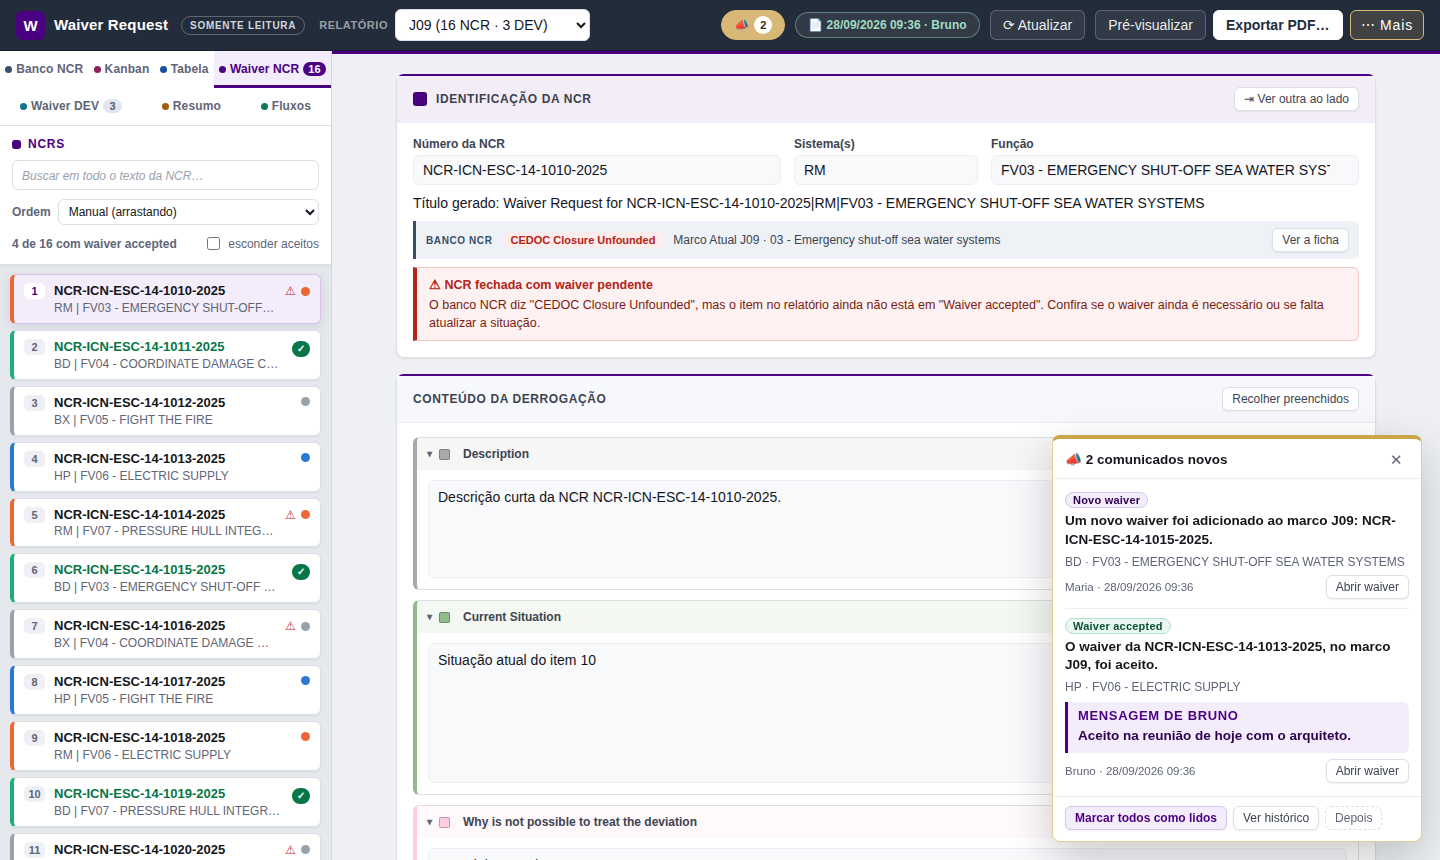
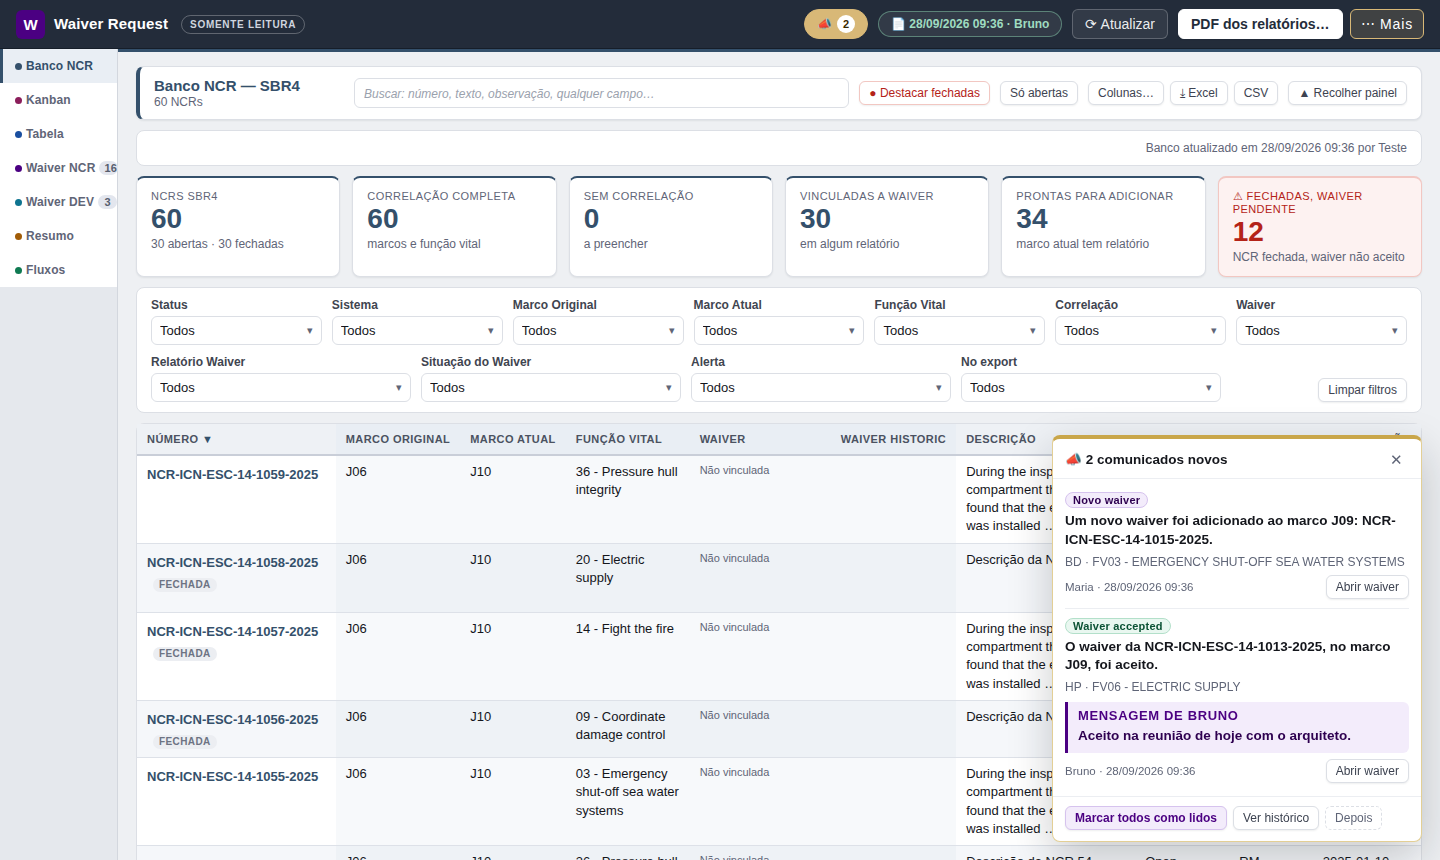
O visualizador também abre direto no Banco NCR
Config.ABA_INICIAL_EDITOR virou Config.ABA_INICIAL e passou a valer para os
dois programas: a aba é escolhida no boot antes do desvio do visualizador.
No visualizador a tabela do banco publicado abre sem nada editável.

Testes: o visualizador abre no Banco NCR, com a tabela montada e sem
controles de edição; a conferência da publicação antiga conta as linhas do
banco. Manual do visualizador: passo 3, pergunta frequente, seção do Banco
NCR e a captura da tela inicial (refeita do visualizador de verdade, lendo
X:\36.GTO - RELATÓRIOS GTO\...\00_BD_VISUALIZADOR).

Claude-Session: https://claude.ai/code/session_01NopkVcVfrmMCeFjHt2w9sw

diff --git a/derrogacao-visualizador.html b/derrogacao-visualizador.html
@@ -5408,8 +5408,8 @@ body.modo-leitura .status-op:disabled:not(.is-on) { opacity: .45; }
 /* ==========================================================================
    config.js — as preferências do programa que mudam com o tempo
    --------------------------------------------------------------------------
-   Um lugar só para o que hoje vale e amanhã será outro — o marco da vez, o
-   ritmo da atualização automática, os marcos que geram comunicados. Mudou o marco prioritário? É aqui, e em
+   Um lugar só para o que hoje vale e amanhã será outro — o marco da vez, a aba
+   de abertura, o ritmo da atualização automática, os marcos que geram comunicados. Mudou o marco prioritário? É aqui, e em
    nenhum outro arquivo.
 
    Carrega logo depois do log.js e não usa ninguém: só guarda valores e as
@@ -5423,10 +5423,10 @@ body.modo-leitura .status-op:disabled:not(.is-on) { opacity: .45; }
      "priorizar o Marco 9". Quando o marco da vez mudar, troque só esta linha. */
   var MARCO_INICIAL = 'J09';
 
-  /* A aba em que o EDITOR abre. Pedido do Bruno: abrir direto no Banco NCR.
-     O visualizador não lê isto — ele continua abrindo como sempre abriu.
-     Valores: 'banco', 'kanban', 'tabela', 'ncr', 'dev', 'resumo', 'fluxos'. */
-  var ABA_INICIAL_EDITOR = 'banco';
+  /* A aba em que o programa abre — o editor e o visualizador. Pedido do
+     Bruno: abrir direto no Banco NCR. Valores: 'banco', 'kanban', 'tabela',
+     'ncr', 'dev', 'resumo', 'fluxos'. */
+  var ABA_INICIAL = 'banco';
 
   /* De quanto em quanto tempo os dados de fora são conferidos sozinhos: a
      pasta da equipe no editor, a publicação no visualizador. */
@@ -5498,7 +5498,7 @@ body.modo-leitura .status-op:disabled:not(.is-on) { opacity: .45; }
 
   global.Config = {
     MARCO_INICIAL: MARCO_INICIAL,
-    ABA_INICIAL_EDITOR: ABA_INICIAL_EDITOR,
+    ABA_INICIAL: ABA_INICIAL,
     INTERVALO_ATUALIZACAO_MS: INTERVALO_ATUALIZACAO_MS,
     MARCOS_COMUNICADOS: MARCOS_COMUNICADOS,
     DIAS_COMUNICADO_NOVO: DIAS_COMUNICADO_NOVO,
@@ -27511,6 +27511,12 @@ if(isWorker){
     Log.vigiar();
     registrarFontes();
     wire();
+    /* O programa abre na aba de Config.ABA_INICIAL (o Banco NCR) — o editor
+       e o visualizador. Antes de montar qualquer coisa, para a primeira tela
+       já ser ela. A aba que não existe nesta página cai na de sempre. */
+    var abaInicial = Config.ABA_INICIAL;
+    var botaoAba = abaInicial && document.querySelector('.tab[data-kind="' + abaInicial + '"]');
+    if (botaoAba && !botaoAba.hidden) state.kind = abaInicial;
     /* O visualizador: o mesmo programa, só lendo a publicação. Nada do que
        vem abaixo (banco do navegador, pasta, conversa, diário) roda nele. */
     if (Leitura.ativo()) {
@@ -27521,13 +27527,6 @@ if(isWorker){
       });
       return;
     }
-    /* O editor abre na aba de Config.ABA_INICIAL_EDITOR (o Banco NCR).
-       Antes de montar qualquer coisa, para a primeira tela já ser ela — e só
-       aqui, depois do desvio do visualizador, que continua abrindo como
-       sempre. A aba que não existe nesta página cai na de sempre. */
-    var abaInicial = Config.ABA_INICIAL_EDITOR;
-    var botaoAba = abaInicial && document.querySelector('.tab[data-kind="' + abaInicial + '"]');
-    if (botaoAba && !botaoAba.hidden) state.kind = abaInicial;
     aoLado = lerAoLado();
     registrarServiceWorker();
     requestPersistentStorage();

diff --git a/derrogacao.html b/derrogacao.html
@@ -5406,8 +5406,8 @@ body.modo-leitura .status-op:disabled:not(.is-on) { opacity: .45; }
 /* ==========================================================================
    config.js — as preferências do programa que mudam com o tempo
    --------------------------------------------------------------------------
-   Um lugar só para o que hoje vale e amanhã será outro — o marco da vez, o
-   ritmo da atualização automática, os marcos que geram comunicados. Mudou o marco prioritário? É aqui, e em
+   Um lugar só para o que hoje vale e amanhã será outro — o marco da vez, a aba
+   de abertura, o ritmo da atualização automática, os marcos que geram comunicados. Mudou o marco prioritário? É aqui, e em
    nenhum outro arquivo.
 
    Carrega logo depois do log.js e não usa ninguém: só guarda valores e as
@@ -5421,10 +5421,10 @@ body.modo-leitura .status-op:disabled:not(.is-on) { opacity: .45; }
      "priorizar o Marco 9". Quando o marco da vez mudar, troque só esta linha. */
   var MARCO_INICIAL = 'J09';
 
-  /* A aba em que o EDITOR abre. Pedido do Bruno: abrir direto no Banco NCR.
-     O visualizador não lê isto — ele continua abrindo como sempre abriu.
-     Valores: 'banco', 'kanban', 'tabela', 'ncr', 'dev', 'resumo', 'fluxos'. */
-  var ABA_INICIAL_EDITOR = 'banco';
+  /* A aba em que o programa abre — o editor e o visualizador. Pedido do
+     Bruno: abrir direto no Banco NCR. Valores: 'banco', 'kanban', 'tabela',
+     'ncr', 'dev', 'resumo', 'fluxos'. */
+  var ABA_INICIAL = 'banco';
 
   /* De quanto em quanto tempo os dados de fora são conferidos sozinhos: a
      pasta da equipe no editor, a publicação no visualizador. */
@@ -5496,7 +5496,7 @@ body.modo-leitura .status-op:disabled:not(.is-on) { opacity: .45; }
 
   global.Config = {
     MARCO_INICIAL: MARCO_INICIAL,
-    ABA_INICIAL_EDITOR: ABA_INICIAL_EDITOR,
+    ABA_INICIAL: ABA_INICIAL,
     INTERVALO_ATUALIZACAO_MS: INTERVALO_ATUALIZACAO_MS,
     MARCOS_COMUNICADOS: MARCOS_COMUNICADOS,
     DIAS_COMUNICADO_NOVO: DIAS_COMUNICADO_NOVO,
@@ -27509,6 +27509,12 @@ if(isWorker){
     Log.vigiar();
     registrarFontes();
     wire();
+    /* O programa abre na aba de Config.ABA_INICIAL (o Banco NCR) — o editor
+       e o visualizador. Antes de montar qualquer coisa, para a primeira tela
+       já ser ela. A aba que não existe nesta página cai na de sempre. */
+    var abaInicial = Config.ABA_INICIAL;
+    var botaoAba = abaInicial && document.querySelector('.tab[data-kind="' + abaInicial + '"]');
+    if (botaoAba && !botaoAba.hidden) state.kind = abaInicial;
     /* O visualizador: o mesmo programa, só lendo a publicação. Nada do que
        vem abaixo (banco do navegador, pasta, conversa, diário) roda nele. */
     if (Leitura.ativo()) {
@@ -27519,13 +27525,6 @@ if(isWorker){
       });
       return;
     }
-    /* O editor abre na aba de Config.ABA_INICIAL_EDITOR (o Banco NCR).
-       Antes de montar qualquer coisa, para a primeira tela já ser ela — e só
-       aqui, depois do desvio do visualizador, que continua abrindo como
-       sempre. A aba que não existe nesta página cai na de sempre. */
-    var abaInicial = Config.ABA_INICIAL_EDITOR;
-    var botaoAba = abaInicial && document.querySelector('.tab[data-kind="' + abaInicial + '"]');
-    if (botaoAba && !botaoAba.hidden) state.kind = abaInicial;
     aoLado = lerAoLado();
     registrarServiceWorker();
     requestPersistentStorage();

diff --git a/assets/js/config.js b/assets/js/config.js
@@ -1,8 +1,8 @@
 /* ==========================================================================
    config.js — as preferências do programa que mudam com o tempo
    --------------------------------------------------------------------------
-   Um lugar só para o que hoje vale e amanhã será outro — o marco da vez, o
-   ritmo da atualização automática, os marcos que geram comunicados. Mudou o marco prioritário? É aqui, e em
+   Um lugar só para o que hoje vale e amanhã será outro — o marco da vez, a aba
+   de abertura, o ritmo da atualização automática, os marcos que geram comunicados. Mudou o marco prioritário? É aqui, e em
    nenhum outro arquivo.
 
    Carrega logo depois do log.js e não usa ninguém: só guarda valores e as
@@ -16,10 +16,10 @@
      "priorizar o Marco 9". Quando o marco da vez mudar, troque só esta linha. */
   var MARCO_INICIAL = 'J09';
 
-  /* A aba em que o EDITOR abre. Pedido do Bruno: abrir direto no Banco NCR.
-     O visualizador não lê isto — ele continua abrindo como sempre abriu.
-     Valores: 'banco', 'kanban', 'tabela', 'ncr', 'dev', 'resumo', 'fluxos'. */
-  var ABA_INICIAL_EDITOR = 'banco';
+  /* A aba em que o programa abre — o editor e o visualizador. Pedido do
+     Bruno: abrir direto no Banco NCR. Valores: 'banco', 'kanban', 'tabela',
+     'ncr', 'dev', 'resumo', 'fluxos'. */
+  var ABA_INICIAL = 'banco';
 
   /* De quanto em quanto tempo os dados de fora são conferidos sozinhos: a
      pasta da equipe no editor, a publicação no visualizador. */
@@ -91,7 +91,7 @@
 
   global.Config = {
     MARCO_INICIAL: MARCO_INICIAL,
-    ABA_INICIAL_EDITOR: ABA_INICIAL_EDITOR,
+    ABA_INICIAL: ABA_INICIAL,
     INTERVALO_ATUALIZACAO_MS: INTERVALO_ATUALIZACAO_MS,
     MARCOS_COMUNICADOS: MARCOS_COMUNICADOS,
     DIAS_COMUNICADO_NOVO: DIAS_COMUNICADO_NOVO,

diff --git a/tests/abertura.test.js b/tests/abertura.test.js
@@ -1,8 +1,7 @@
 /* Abertura no marco da vez (Config.MARCO_INICIAL, hoje J09): a comparação
    tolerante, a preferência sobre o "mais recente", a regra de antes quando
    ele não existe — sem criar relatório nenhum —, e o mesmo no visualizador.
-   E a aba: o editor abre no Banco NCR (Config.ABA_INICIAL_EDITOR); o
-   visualizador continua abrindo na aba de sempre, a Waiver NCR. */
+   E a aba: o editor e o visualizador abrem no Banco NCR (Config.ABA_INICIAL). */
 'use strict';
 const L = require('./lib');
 
@@ -65,8 +64,11 @@ const L = require('./lib');
     await vis.pagina.waitForFunction(() => document.getElementById('projectSelect').options.length > 0);
     const v = await vis.pagina.evaluate(() => document.getElementById('projectSelect').selectedOptions[0].textContent);
     L.ok(/^J09 \(/.test(v), 'o visualizador abre no J09: ' + v);
-    L.igual(await vis.pagina.$eval('.tab[aria-selected="true"]', t => t.dataset.kind), 'ncr',
-      'e o visualizador continua abrindo na aba Waiver NCR (a aba inicial é só do editor)');
+    L.igual(await vis.pagina.$eval('.tab[aria-selected="true"]', t => t.dataset.kind), 'banco',
+      'e o visualizador também abre no Banco NCR');
+    L.ok(await vis.pagina.$$eval('#nb2Table tbody tr', r => r.length) > 0, 'com a tabela do banco publicado já montada');
+    L.ok(await vis.pagina.$$eval('#nb2Table .nb2-dd, #nb2Table .nb2-txt, #nb2Table select', x => x.length) === 0,
+      'e sem nada que edite');
   } finally {
     const f = L.resultado('abertura no marco da vez', s.erros.concat(vis ? vis.erros : []));
     if (vis) await vis.navegador.close();

diff --git a/assets/js/app.js b/assets/js/app.js
@@ -8278,6 +8278,12 @@
     Log.vigiar();
     registrarFontes();
     wire();
+    /* O programa abre na aba de Config.ABA_INICIAL (o Banco NCR) — o editor
+       e o visualizador. Antes de montar qualquer coisa, para a primeira tela
+       já ser ela. A aba que não existe nesta página cai na de sempre. */
+    var abaInicial = Config.ABA_INICIAL;
+    var botaoAba = abaInicial && document.querySelector('.tab[data-kind="' + abaInicial + '"]');
+    if (botaoAba && !botaoAba.hidden) state.kind = abaInicial;
     /* O visualizador: o mesmo programa, só lendo a publicação. Nada do que
        vem abaixo (banco do navegador, pasta, conversa, diário) roda nele. */
     if (Leitura.ativo()) {
@@ -8288,13 +8294,6 @@
       });
       return;
     }
-    /* O editor abre na aba de Config.ABA_INICIAL_EDITOR (o Banco NCR).
-       Antes de montar qualquer coisa, para a primeira tela já ser ela — e só
-       aqui, depois do desvio do visualizador, que continua abrindo como
-       sempre. A aba que não existe nesta página cai na de sempre. */
-    var abaInicial = Config.ABA_INICIAL_EDITOR;
-    var botaoAba = abaInicial && document.querySelector('.tab[data-kind="' + abaInicial + '"]');
-    if (botaoAba && !botaoAba.hidden) state.kind = abaInicial;
     aoLado = lerAoLado();
     registrarServiceWorker();
     requestPersistentStorage();

diff --git a/tests/navegacao.test.js b/tests/navegacao.test.js
@@ -24,7 +24,7 @@ const L = require('./lib');
     const cores = await pg.$$eval('.tab', ts => ts.filter(t => !t.hidden).map(t => getComputedStyle(t, '::before').backgroundColor));
     L.ok(new Set(cores).size === cores.length, 'cada área tem um ponto de cor diferente: ' + cores.join(' '));
     L.igual(await pg.$eval('.tab[aria-selected="true"]', t => t.dataset.kind), 'banco',
-      'o editor abre no Banco NCR (Config.ABA_INICIAL_EDITOR, pedido do Bruno)');
+      'o editor abre no Banco NCR (Config.ABA_INICIAL, pedido do Bruno)');
     await pg.click('.tab[data-kind="ncr"]');
     const ativa = await pg.$eval('.tab[aria-selected="true"]', t => ({
       kind: t.dataset.kind, barra: getComputedStyle(t).borderBottomWidth, fundo: getComputedStyle(t).backgroundColor

diff --git a/tests/comunicados.test.js b/tests/comunicados.test.js
@@ -410,7 +410,8 @@ function aviso(pg) {
     await v3.pagina.waitForFunction(() => document.getElementById('projectSelect').options.length > 0);
     await v3.pagina.waitForTimeout(500);
     const velha = await v3.pagina.evaluate(() => ({ pop: document.getElementById('comPop').hidden, chip: document.getElementById('comChip').hidden,
-      itens: document.querySelectorAll('.ncr-item').length }));
+      /* abre no Banco NCR (Config.ABA_INICIAL): conta as linhas de lá */
+      itens: document.querySelectorAll('#nb2Table tbody tr').length }));
     L.ok(velha.pop && velha.chip && velha.itens > 0, 'a publicação antiga abre normalmente, sem pop-up e sem etiqueta');
   } finally {
     const errosOutros = [];

diff --git a/tests/lib.js b/tests/lib.js
@@ -220,7 +220,7 @@ async function semear(pagina, url, opts) {
   }, { dados: dados, j06: exemploJ06, semBanco: !!opts.semBanco });
   await pagina.reload();
   await esperarPronto(pagina);
-  /* O editor abre no Banco NCR (Config.ABA_INICIAL_EDITOR). As suítes que
+  /* O programa abre no Banco NCR (Config.ABA_INICIAL). As suítes que
      começam pela lista de itens pedem a aba Waiver NCR; quem confere a
      abertura em si passa { naAbertura: true } e fica onde o programa abriu. */
   if (!opts.naAbertura && !/visualizador/.test(opts.pagina || '')) {

diff --git a/CLAUDE.md b/CLAUDE.md
@@ -68,8 +68,8 @@ assets/css/report.css      layout do relatório — tela e impressão A4
 assets/js/log.js           o diário do console: o que está acontecendo, e o
                            que fazer quando dá errado (carrega primeiro)
 assets/js/config.js        o que muda com o tempo: o marco que abre primeiro
-                           (MARCO_INICIAL), a aba em que o editor abre
-                           (ABA_INICIAL_EDITOR), o ritmo da atualização e os
+                           (MARCO_INICIAL), a aba em que o programa abre
+                           (ABA_INICIAL), o ritmo da atualização e os
                            marcos com oferta de comunicado (MARCOS_COMUNICADOS)
 assets/js/atualizacao.js   o ciclo único da atualização automática e o contador
 assets/js/leitura.js       o modo leitura (o visualizador): liga e blinda
@@ -1221,10 +1221,9 @@ esquerda (`j 9` = `J09`) e aceita o prefixo `RANAE` — com nota menor, para o
 relatório (o escrito igual primeiro, depois o mexido por último) ou `null`.
 
 - **Editor**: o boot abre esse relatório; sem ele, `list[0]` (o mais recente),
-  como sempre. Nunca cria relatório. E abre na **aba**
-  `Config.ABA_INICIAL_EDITOR` (`'banco'`, pedido do Bruno) — definida no
-  `boot`, **depois** do desvio do visualizador, que continua abrindo na
-  Waiver NCR. Os testes que começam pela lista de itens pedem a aba Waiver
+  como sempre. Nunca cria relatório. E abre na **aba** `Config.ABA_INICIAL`
+  (`'banco'`, pedido do Bruno) — definida no `boot`, **antes** do desvio do
+  visualizador, porque os dois abrem nela. Os testes que começam pela lista de itens pedem a aba Waiver
   NCR no `L.semear` (`naAbertura: true` fica onde o programa abriu).
 - **A pasta pode trazê-lo depois** (quem liga a pasta pela primeira vez):
   `aberturaPendente` fica armado quando a abertura caiu no mais recente, e
@@ -1687,6 +1686,6 @@ desta máquina às vezes bloqueia `github.io`.
 | O backup de tudo leva os comunicados | backup pela metade não é backup; versões antigas ignoram a chave |
 | "Novo waiver" = item do relatório Waiver do J09; "Nova NCR" = NCR do banco com Marco Atual J09 | a leitura proposta ao Bruno antes de implementar |
 | Qualquer marco pode ser comunicado pelo botão; a oferta automática fica só nos de `MARCOS_COMUNICADOS` | pedido do Bruno ("gerar alertas quando eu quiser, para outros marcos"); oferecer em todo marco a cada mudança seria ruído |
-| O editor abre na aba Banco NCR (`Config.ABA_INICIAL_EDITOR`); o visualizador, na Waiver NCR | pedido do Bruno, que pediu também para não mexer no visualizador |
+| O editor e o visualizador abrem na aba Banco NCR (`Config.ABA_INICIAL`) | pedido do Bruno (primeiro o editor, depois também o visualizador) |
 | A Observação do banco NCR se edita na tabela, só no editor | pedido do Bruno; o visualizador continua só leitura |
 

diff --git a/MANUAL-VISUALIZADOR.md b/MANUAL-VISUALIZADOR.md
@@ -101,7 +101,9 @@ X:\36.GTO - RELATÓRIOS GTO\
    **Abrir com** → **Microsoft Edge**.
    (Se o Edge já for o seu navegador padrão, basta clicar duas vezes.)
 3. Aparece por um instante *“Carregando os dados…”*. Em seguida o programa
-   abre direto no relatório do **J09** — o marco da vez.
+   abre direto na aba **Banco NCR**, com todas as NCRs do SBR4. Nas abas
+   *Waiver NCR* e *Waiver DEV*, o relatório que já vem escolhido é o do
+   **J09** — o marco da vez.
 4. Confira no alto, à direita, a etiqueta **📄 com a data e o nome** (por
    exemplo `📄 28/09/2026 09:36 · Bruno`): é de quando é a publicação que você
    está vendo e quem a publicou. Etiqueta **verde** = tudo certo.
@@ -123,7 +125,7 @@ X:\36.GTO - RELATÓRIOS GTO\
 > uma pasta do seu computador, e ele abriria sem dados. O visualizador é para
 > ser aberto **da pasta da rede**.
 
-![Tela inicial do visualizador, no relatório do J09, com o aviso de comunicados no canto](docs/manual-visualizador/02-tela-inicial.png)
+![Tela inicial do visualizador: a aba Banco NCR, com o aviso de comunicados no canto](docs/manual-visualizador/02-tela-inicial.png)
 
 ## 5. A tela, parte por parte
 
@@ -308,8 +310,8 @@ ordem do PDF:
 
 ### 8.2 Banco NCR — todas as NCRs do SBR4
 
-Todas as NCRs do **SBR4** importadas do banco NCR (o mesmo export que o NCR
-Control usa), com os campos que a equipe de derrogação acrescenta: **Marco
+É a aba em que o visualizador abre. Todas as NCRs do **SBR4** importadas do
+banco NCR (o mesmo export que o NCR Control usa), com os campos que a equipe de derrogação acrescenta: **Marco
 Original**, **Marco Atual**, **Função Vital**, **Waiver Historic** e
 **Observação**.
 
@@ -703,9 +705,11 @@ está vendo.
 está vendo. Antes de mandar para alguém, clique em ⟳ Atualizar e confira a
 data na etiqueta 📄. Com recorte por situação, a capa avisa que é parcial.
 
-**Por que abre no J09?**
-O J09 é o marco da vez. Para ver outro, escolha em **Relatório** (abas Waiver)
-ou nas pastilhas de marco (Kanban, Tabela, Resumo).
+**Por que abre no Banco NCR, e no J09?**
+O Banco NCR é o ponto de partida combinado pela equipe: todas as NCRs do SBR4
+numa tela só. Para ir a outra área, clique na aba à esquerda. Nas abas Waiver,
+o relatório já escolhido é o do J09, o marco da vez; para ver outro, escolha
+em **Relatório** — ou nas pastilhas de marco (Kanban, Tabela, Resumo).
 
 **O que é “J09 Ind”?**
 O marco industrial correspondente. É tratado como **outro** marco: nada dele é

diff --git a/README.md b/README.md
@@ -15,8 +15,8 @@ login e nenhum dado sai do computador.
   aparece onde o relatório aberto decide o que está na tela (as duas abas
   Waiver e a aba Fluxos, quando ela olha "este relatório"); nas outras cada
   aba tem o próprio recorte. Ver [As áreas e o seletor de relatório](#as-áreas-e-o-seletor-de-relatório).
-- **Abre no Banco NCR, no marco da vez.** O editor abre direto na aba
-  **Banco NCR**; o relatório do **J09** já vem escolhido, e o Kanban e o
+- **Abre no Banco NCR, no marco da vez.** O editor e o visualizador abrem
+  direto na aba **Banco NCR**; o relatório do **J09** já vem escolhido, e o Kanban e o
   Resumo nascem nele. Sem o J09, vale o relatório mexido por último, como
   sempre foi. Ver [O marco que abre primeiro](#o-marco-que-abre-primeiro).
 - **Atualização automática.** No visualizador, a publicação é relida a cada
@@ -213,9 +213,9 @@ se aplica. Nas abas com exportação própria, o botão de cima passa a se chama
 
 ## O marco que abre primeiro
 
-O **editor** abre na aba **Banco NCR** (pedido do Bruno). A aba fica em
-`assets/js/config.js`, `ABA_INICIAL_EDITOR` — trocar por `'ncr'` volta ao
-que era. O **visualizador** continua abrindo na aba Waiver NCR.
+O **editor** e o **visualizador** abrem na aba **Banco NCR** (pedido do
+Bruno). A aba fica em `assets/js/config.js`, `ABA_INICIAL` — trocar por
+`'ncr'` volta ao que era.
 
 Ao abrir, o programa vai direto ao relatório do **J09** (o editor e o
 visualizador), e o Kanban e o Resumo nascem nele. A comparação ignora
